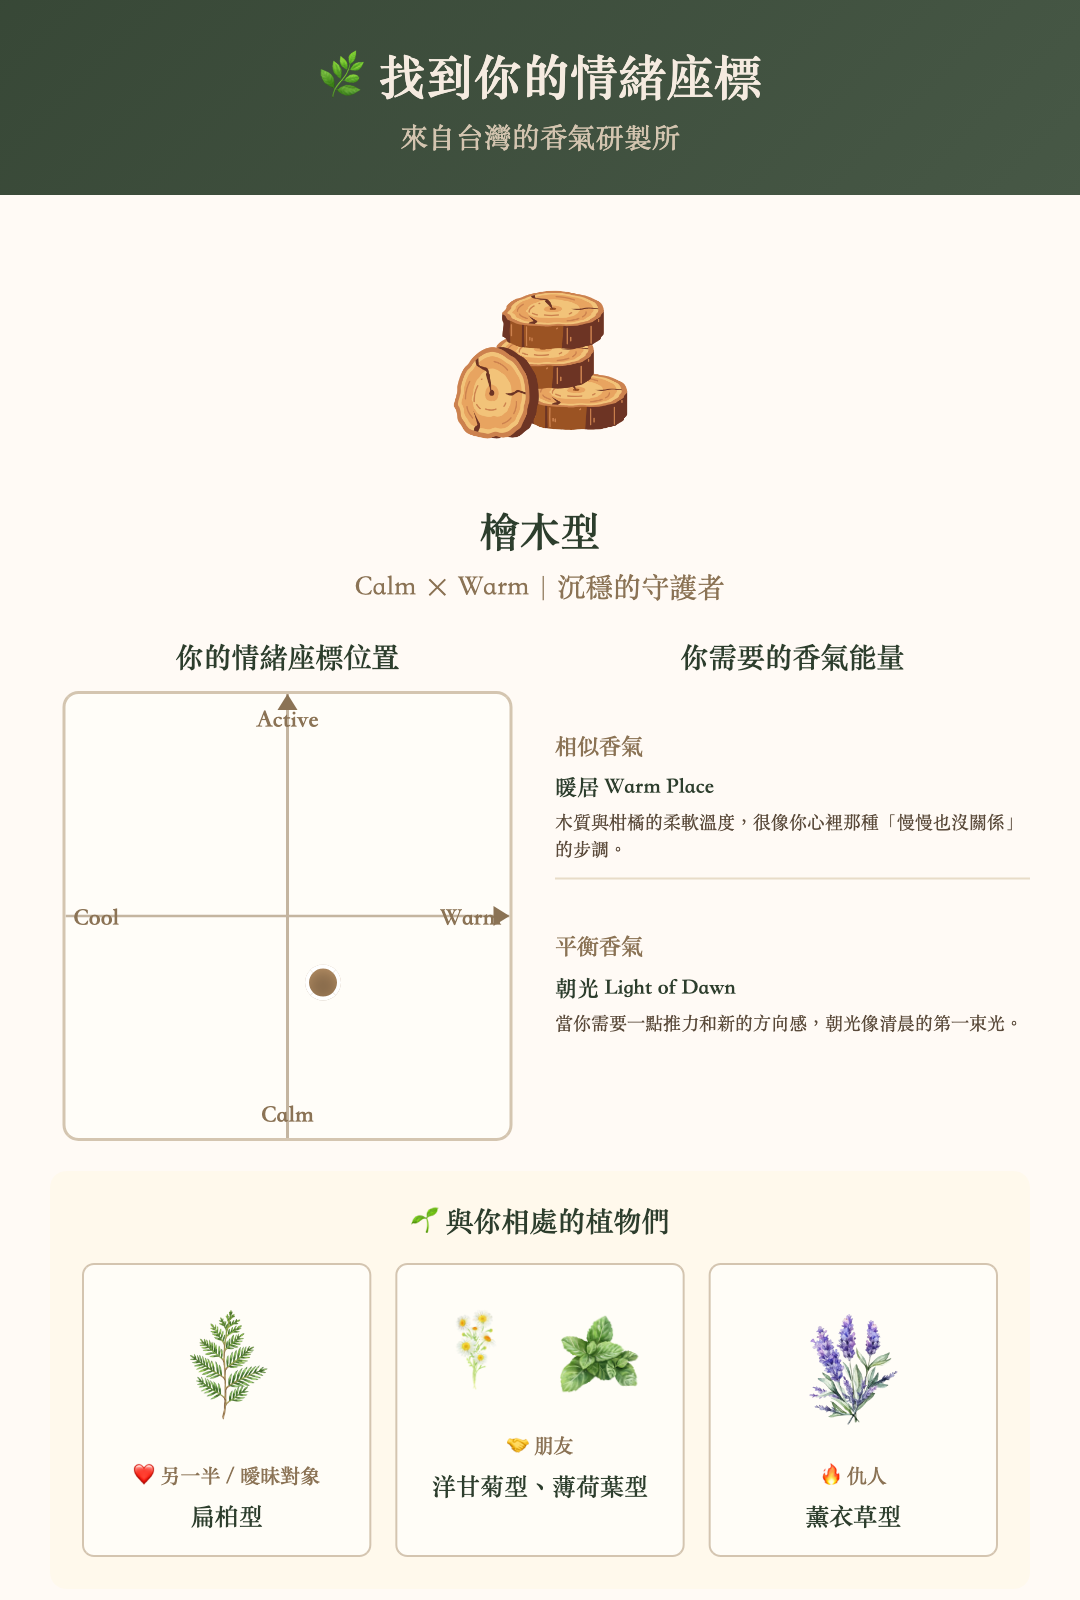
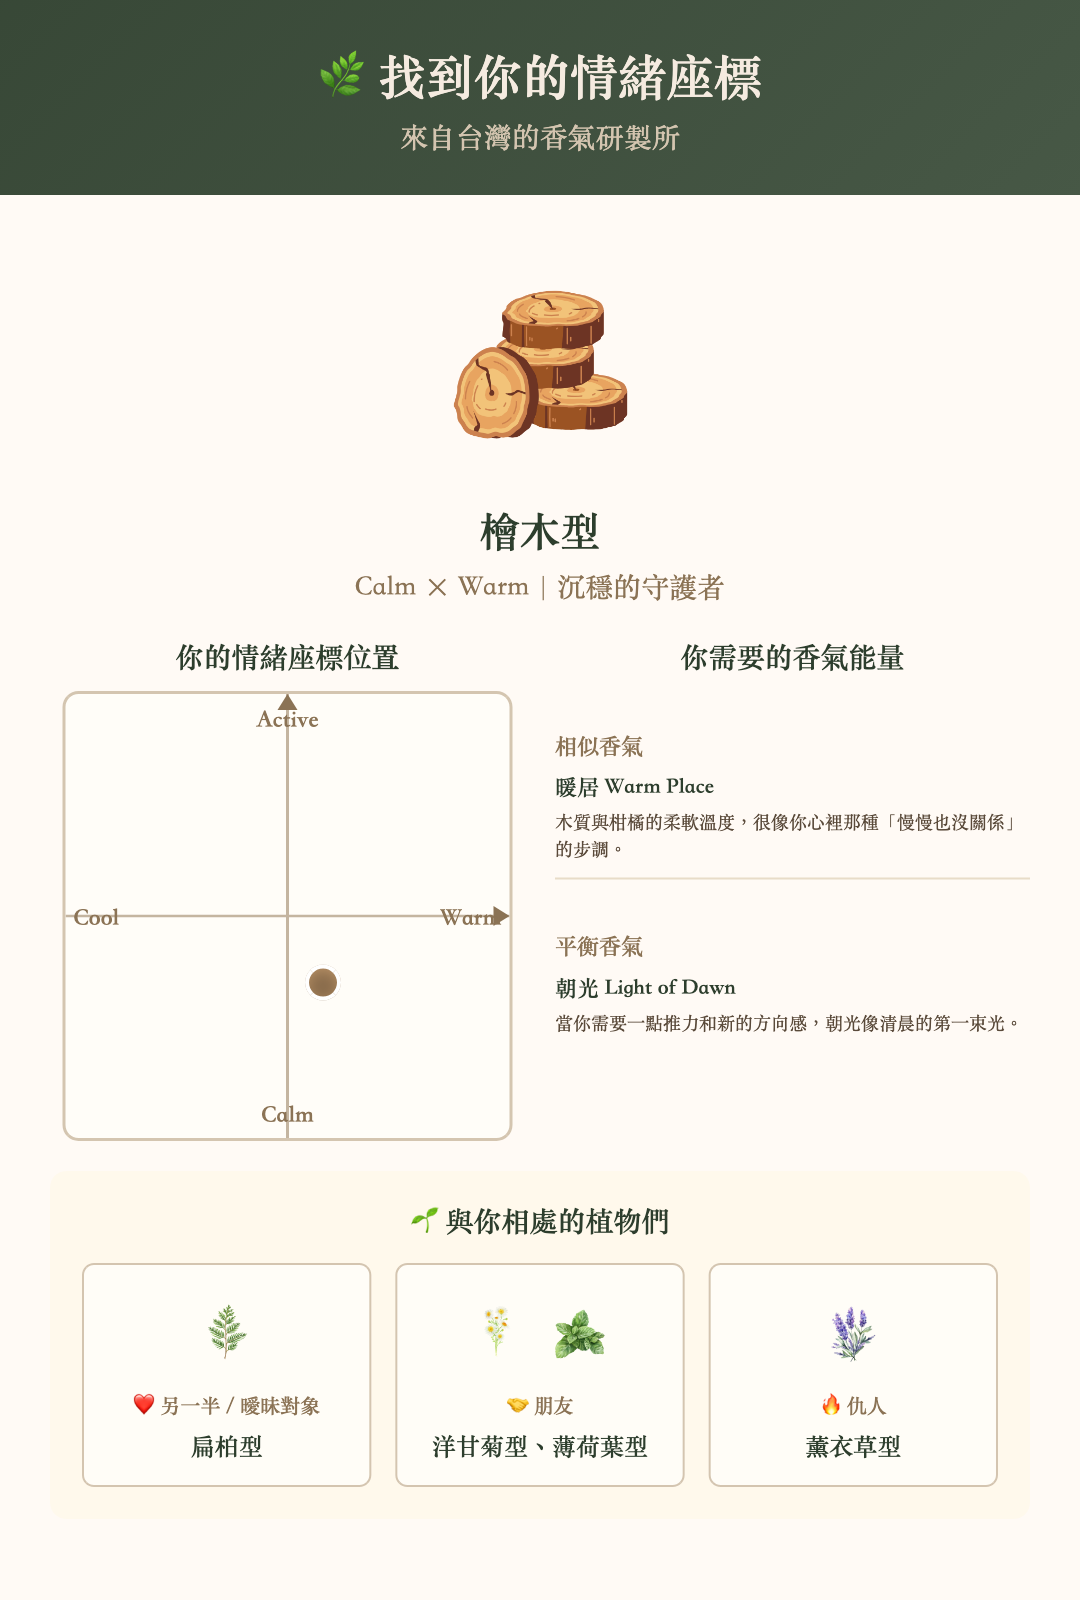
調整分享圖片中的關係植物圖片高度為 70px

diff --git a/css/share-card.css b/css/share-card.css
@@ -258,8 +258,8 @@
 
 /* 植物圖片樣式 */
 .ig-share-card__relation-image {
-  width: 140px;
-  height: 140px;
+  width: 70px;
+  height: 70px;
   /* 移除圓框 */
   border-radius: 0;
   /* 保留比例或改成 contain */
@@ -270,10 +270,10 @@
   background: transparent;
 }
 
-/* 多個植物時縮小圖片 */
+/* 多個植物時保持相同尺寸 */
 .ig-share-card__relation-image.multi-plant {
-  width: 110px;
-  height: 110px;
+  width: 70px;
+  height: 70px;
 }
 
 

diff --git a/tools/generate-share-images.html b/tools/generate-share-images.html
@@ -457,7 +457,7 @@
                         // 下載檔案
                         const url = URL.createObjectURL(blob);
                         const link = document.createElement('a');
-                        link.download = `share-${key}.png`;
+                        link.download = `${key}.png`;
                         link.href = url;
                         link.click();
                         URL.revokeObjectURL(url);
